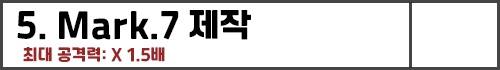
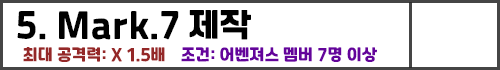
finally finished

Changed region(s): [[0.36, 0.6571, 0.78, 0.8857]]

diff --git a/week7_game/week7_game.cpp b/week7_game/week7_game.cpp
@@ -4,8 +4,8 @@
 #include <stdlib.h>
 #include <time.h>
 #include <math.h>
-SceneID scene_Start, scene_Cave, scene_Upgrade, scene_Armor, scene_Avengers_Facility, scene_Avengers_Recruit, scene_Villain;
-ObjectID icon_Start, icon_Support, icon_Upgrade, icon_Back, icon_Avengers_Facility, icon_Recruit, icon_Test, icon_Boss_Stage, icon_Attack;
+SceneID scene_Start, scene_Cave, scene_Upgrade, scene_Armor, scene_Avengers_Facility, scene_Avengers_Recruit, scene_Villain, scene_End;
+ObjectID icon_Start, icon_Support, icon_Upgrade, icon_Back, icon_Avengers_Facility, icon_Recruit, icon_Test, icon_Boss_Stage, icon_Attack, icon_Success, icon_Fail, icon_End, icon_Condition, avengers_Condition;
 ObjectID icon_Upgrade_Suit[8], icon_Anvil[8], ironman_Suit, avengers[16], icon_Avengers[16], icon_Avengers_Block[16], tip[10];
 
 int scene_Upgrade_Y[8] = { 450, 350, 250, 150 };
@@ -15,17 +15,16 @@ int icon_Avengers_X[4] = {275,575,875,1175};
 int icon_Avengers_Y[4] = { 405, 315, 225, 135 };
 int icon_Avengers_Block_X[4] = {53, 353,653, 953};
 int icon_Avengers_Block_Y[4] = {396, 306, 216, 126};
-int upgrade_Member[8] = { 0, 0, 1, 3, 7, 10, 13, 16 };
+int upgrade_Member[8] = { 0, 0, 1, 3, 7, 8, 13, 16 };
 bool avengers_Status[16] = { 0,0,0,0,0,0,0,0,0,0,0,0,0,0,0,0 };
 bool avengers_Possible[16] = { 0, 0, 0, 0, 0, 0, 0, 0, 0, 0, 0, 0, 0, 0, 0, 0};
 bool upgrade_Possible[8] = { 1,1,0,0,0,0,0,0 };
 double damage_Multiple[9] = {1.0, 1.0, 1.1, 1.2, 1.3, 1.5, 1.7, 2, 3 };
 
-int avengers_Damage[16] = { 20, 20, 50, 50, 50, 100, 100, 1000, 1000, 10000, 5000, 5000, 20000, 2000, 30000, 40000 };
+int avengers_Damage[16] = { 20, 20, 50, 50, 50, 100, 100, 1000, 1000, 10000, 5000, 5000, 20000, 2000, 30000, 100000 };
 int villain_Damage[12] = { 5, 10, 40, 100, 150, 400, 500, 2500, 4500, 10000, 50000, 150000 };
 
 int upgrade_Status = 0;
-int support_Status = 0;
 int damage_Status = 10;
 int boss_Status = 0;
 int attack_Count = 0;
@@ -101,6 +100,7 @@ void recruitScene() {
         hideObject(icon_Avengers[i]);
     }
     enterScene(scene_Avengers_Recruit);
+    hideObject(avengers_Condition);
 
     for (int i = 0; i < 16; i++) {
         avengersPossible(i);
@@ -120,15 +120,18 @@ void recruitScene() {
     }
 
     if (tip_Count == 7) {
-        locateObject(tip[7], scene_Avengers_Recruit, 100, 500);
+        locateObject(tip[7], scene_Avengers_Recruit, 100, 400);
         showObject(tip[7]);
 
     }
     else if (tip_Count == 8) {
-        locateObject(tip[8], scene_Avengers_Recruit, 500, 500);
+        locateObject(tip[8], scene_Avengers_Recruit, 500, 400);
         showObject(tip[8]);
 
     }
+    icon_Condition = createObject("Images\\icon_Condition.png");
+    locateObject(icon_Condition, scene_Avengers_Recruit, 1000, 600);
+    showObject(icon_Condition);
 
     icon_Back = createObject("Images\\icon_Back.png");
     locateObject(icon_Back, scene_Avengers_Recruit, 0, 0);
@@ -166,7 +169,12 @@ void upgradeScene() {
         sprintf(icon_Upgrade_Image, "Images\\icon_Upgrade\\icon_Upgrade_%d.png", i);
         icon_Upgrade_Suit[i] = createObject(icon_Upgrade_Image);
         if (i < upgrade_Status + 1 && avengers_Member >= upgrade_Member[i]) {
-            icon_Anvil[i] = createObject("Images\\icon_Anvil.png");
+            if (i == 1 && tip_Count == 3) {
+                icon_Anvil[1] = createObject("Images\\icon_Anvil_2.png");
+            }
+            else {
+                icon_Anvil[i] = createObject("Images\\icon_Anvil.png");
+            }
         }
         else {
             icon_Anvil[i] = createObject("Images\\icon_Anvil_2.png");
@@ -227,8 +235,9 @@ void battleScene() {
 void mainScene() {
     hideObject(ironman_Suit);
     hideObject(icon_Boss_Stage);
-
-    if (upgrade_Status < 2) {
+    if (boss_Status == 12) {
+        enterScene(scene_End);
+    } else if (upgrade_Status < 2) {
         enterScene(scene_Cave);
     } else if (upgrade_Status < 9) {
         enterScene(scene_Armor);
@@ -283,7 +292,7 @@ void mainScene() {
 
     }
     else if (tip_Count == 9) {
-        locateObject(tip[9], scene_Armor, 100, 500);
+        locateObject(tip[9], scene_Armor, 100, 400);
         showObject(tip[9]);
 
     }
@@ -293,27 +302,31 @@ void mouseCallback(ObjectID object, int x, int y, MouseAction action) {
 	if (object == icon_Start) {
         mainScene();
 	}
-    if (object == icon_Upgrade && tip_Count >= 1) {
-        printf("%d", tip_Count);
+    if (object == icon_Upgrade && tip_Count >= 1 && tip_Count != 3 && tip_Count != 8) {
         upgradeScene();
     }
     if (object == icon_Back) {
         mainScene();
-    }
+    }   
     if (object == icon_Avengers_Facility && tip_Count >= 10) {
         avengersFacilityScene();
     }
-    if (object == icon_Recruit && tip_Count >= 7) {
+    if (object == icon_Recruit && tip_Count >= 7 && tip_Count != 8) {
         recruitScene();
     }
-    if (object == icon_Boss_Stage && tip_Count >= 4) {
+    if (object == icon_Boss_Stage && tip_Count >= 4 && tip_Count != 8) {
         battleScene();
     }
     for (int i = 0; i < 8; i++) {
-        if (object == icon_Anvil[i] && i == upgrade_Status && tip_Count >= 3) {
-            upgrade_Status = i + 1;
-            upgradeScene();
-            printf("%d", upgrade_Status);
+        if (object == icon_Anvil[i] && i == upgrade_Status && tip_Count >= 3 && avengers_Member >= upgrade_Member[i]) {
+            if (i == 1 && tip_Count == 3) {
+                continue;
+            }
+            else {
+                upgrade_Status = i + 1;
+                upgradeScene();
+                printf("%d", upgrade_Status);
+            }
         }
     }
     for (int i = 0; i < 16; i++) {
@@ -329,17 +342,21 @@ void mouseCallback(ObjectID object, int x, int y, MouseAction action) {
             }
         }
     }
-    if (object == icon_Attack && tip_Count >= 6) { 
+    if (object == icon_Attack && tip_Count >= 6 && attack_Count != 3) { 
         boss_Hp = boss_Hp - damage_Calculate();
         attack_Count++;
         printf("%d %d %d \n", boss_Hp, attack_Count, boss_Status);  
         if (boss_Hp < 1) {
             boss_Status++;
-            mainScene();
-            attack_Count = 0;
+            icon_Success = createObject("Images\\icon_Success.png");
+            locateObject(icon_Success, scene_Villain, 300, 200);
+            showObject(icon_Success);
+
         } else if (attack_Count == 3) {
-            mainScene();
-            attack_Count = 0;
+            icon_Fail = createObject("Images\\icon_Fail.png");
+            locateObject(icon_Fail, scene_Villain, 300, 200);
+            showObject(icon_Fail);
+
         }
     }
     for (int i = 0; i < 10; i++) {
@@ -356,6 +373,20 @@ void mouseCallback(ObjectID object, int x, int y, MouseAction action) {
             }
         } 
     }
+    if (object == icon_Success || object == icon_Fail) {
+        hideObject(icon_Success);
+        hideObject(icon_Fail);
+        attack_Count = 0;
+        mainScene();
+    }
+    if (object == icon_Condition) {
+        avengers_Condition = createObject("Images\\avengers_Condition.png");
+        locateObject(avengers_Condition, scene_Avengers_Recruit, 160, 90);
+        showObject(avengers_Condition);
+    }
+    if (object == avengers_Condition) {
+        hideObject(avengers_Condition);
+    }
 }
 
 int main()
@@ -364,12 +395,13 @@ int main()
 
     srand(time(NULL));
 
-    scene_Start = createScene("Room1", "Images\\scene_Start.png");  
-    scene_Cave = createScene("Room1", "Images\\scene_Cave.png");
-    scene_Armor = createScene("r", "Images\\scene_Armor.png");
-    scene_Upgrade = createScene("r", "Images\\scene_Upgrade.png");
-    scene_Avengers_Recruit = createScene("s", "Images\\scene_Avengers_Recruit.png");
-    scene_Avengers_Facility = createScene("a", "Images\\scene_Avengers_Facility.png");
+    scene_Start = createScene("", "Images\\scene_Start.png");  
+    scene_Cave = createScene("", "Images\\scene_Cave.png");
+    scene_Armor = createScene("", "Images\\scene_Armor.png");
+    scene_Upgrade = createScene("", "Images\\scene_Upgrade.png");
+    scene_End = createScene("", "Images\\scene_End.png");
+    scene_Avengers_Recruit = createScene("", "Images\\scene_Avengers_Recruit.png");
+    scene_Avengers_Facility = createScene("", "Images\\scene_Avengers_Facility.png");
 
     for (int i = 0; i < 10; i++) {
         sprintf(tip_Image, "Images\\tip\\tip_%d.png", i);
